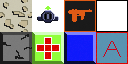
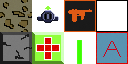
asd

Changed region(s): [[0.5, 0.5, 0.75, 1.0], [0.0, 0.0, 0.25, 0.5]]

diff --git a/Pawns.py b/Pawns.py
@@ -1,7 +1,7 @@
 import pygame as pg
 from settings import *
 from Entity import GameEntity
-import time
+import math
 import json
 
 vec = pg.math.Vector2
@@ -16,9 +16,6 @@ class Player(GameEntity):
         self.image_copy = self.image.copy()
         self.copy_rect = self.image_copy.get_rect()
         self.player_center = self.copy_rect.center
-        self.acc = vec(0, 0)
-        self.vel = vec(0, 0)
-        self.pos = vec(0, 0)
         self.health = 100
         self.rotation_speed = 10
         self.rotation_amount = 0
@@ -30,19 +27,19 @@ class Player(GameEntity):
         self.pickup_item()
 
     def pickup_item(self):
-        new_weapon = Weapon(player=self, world=self.world, name="armBlaster", asset_type=WEAPON)
-        print("picking up item: {}".format(new_weapon.name))
+        new_weapon = Weapon(owner=self, world=self.world, name="armBlaster", asset_type=WEAPON)
         self.weapons.append(new_weapon)
         self.current_weapon = new_weapon
+
+    def get_movement_vector(self):
+        vel_x = int(self.vel.x + 0.5 * self.acc.x)
+        vel_y = int(self.vel.y + 0.5 * self.acc.y)
+        return vel_x, vel_y
 
     def update(self):
         self.get_keys()
         if self.health <= 0:
-            self.alive = False
-        if self.alive == False:
-            print("Player Died, game over.")
-            self.game.playing = False
-            self.game.game_over = True
+            self.is_alive = False
 
     def rotate_player(self, input_direction):
         if input_direction != self.rotation_amount:
@@ -103,6 +100,8 @@ class Player(GameEntity):
             if keys[pg.K_LSHIFT]:
                 self.acc.y = -PLAYER_ACCELERATION * 2
                 # apply friction
+        if keys[pg.K_k]:
+            self.health = 0
         self.current_weapon.get_keys()
         self.acc += self.vel * PLAYER_FRICTION
         # equations of motion
@@ -121,17 +120,23 @@ class Weapon(GameEntity):
     def __init__(self, **kwargs):
         super(Weapon, self).__init__(**kwargs)
         self.weapon_stats = None
+        self.owner = kwargs.get('owner')
         self.setup_weapon()
+        self.last_bullet = None
 
     def get_keys(self):
         mouse_event = pg.mouse.get_pressed()
         if mouse_event[0]:  # and self.current_ammo > 0
-            self.shoot()
+            if not self.last_bullet:
+                self.shoot()
+            elif pg.time.get_ticks() - self.last_bullet.spawn_time > self.weapon_stats['millisecondsBetweenBullets']:
+                self.shoot()
 
     def shoot(self):
-        print("{} just shot!".format(self.name))
-        self.world.spawn_item(Bullet(world=self.world, life_length=self.weapon_stats['lifeLength'],
-                                     name=("{} ammo".format(self.name))))
+        self.last_bullet = Bullet(world=self.world, life_length=self.weapon_stats['lifeLength'],
+                                  bullet_speed=self.weapon_stats['bulletSpeed'], name=("{} ammo".format(self.name)),
+                                  spawn_angle=self.owner.rotation_amount)
+        self.world.spawn_item(self.last_bullet)
         # current_bullet = Bullet(self.world)
         # self.live_bullets.append(current_bullet)
 
@@ -155,9 +160,37 @@ class Bullet(GameEntity):
         self.acc = vec(0, 0)
         self.vel = vec(0, 0)
         self.pos = vec(0, 0)
+        self.image_copy = self.image.copy()
+        self.copy_rect = self.image_copy.get_rect()
+        self.rotation_amount = kwargs.get('spawn_angle')
         self.life_length = kwargs.get('life_length')
+        self.speed = kwargs.get('bullet_speed')
+        self.x_movement = 0
+        self.y_movement = 0
+        self.rotate_image()
+        self.set_movement(player_vector=kwargs.get('player_vector'))
 
-    def update(self):
-        if (time.time() - self.spawn_time) > self.life_length:
+    def set_movement(self, **kwargs):
+        if self.rotation_amount < 0:
+            self.rotation_amount = 360 + self.rotation_amount
+        if 180 > self.rotation_amount >= 0:
+            self.x_movement = -1 * (1 - (abs(90 - self.rotation_amount) / 90.0))
+            self.y_movement = -1 * ((90 - self.rotation_amount) / 90.0)
+        if 360 >= self.rotation_amount >= 180:
+            self.x_movement = 1 - (abs(270 - self.rotation_amount) / 90.0)
+            self.y_movement = ((270 - self.rotation_amount) / 90.0)
+        self.x_movement = round(self.x_movement * self.speed)
+        self.y_movement = round(self.y_movement * self.speed)
+
+    def update(self, **kwargs):
+        if (pg.time.get_ticks() - self.spawn_time) > self.life_length:
             self.kill()
+        self.rect.x += self.x_movement
+        self.rect.y += self.y_movement
         # self.rect.x, self.rect.y = self.pos
+
+    def rotate_image(self):
+        rot_image = pg.transform.rotate(self.image_copy, self.rotation_amount)
+        self.rect.topleft = (
+            SCREEN_WIDTH / 2 - rot_image.get_width() / 2, SCREEN_HEIGHT / 2 - rot_image.get_height() / 2)
+        self.image = rot_image

diff --git a/World.py b/World.py
@@ -9,13 +9,13 @@ class World:
         self.world_coords_origin = SCREEN_WIDTH/2, SCREEN_HEIGHT/2
         self.world_coords_offset = (0, 0)
         self.player_1 = None
-        self.player_sprite = sprite.OrderedUpdates()
+        self.player_sprite = sprite.Group()
         self.sprite_sheet = None
         self.terrain_sprites = sprite.OrderedUpdates()
-        self.projectile_sprites = sprite.OrderedUpdates()
+        self.projectile_sprites = sprite.Group()
+        self.enemy_sprites = sprite.Group()
         self.offset_x = None
         self.offset_y = None
-        self.current_tiles = []
         self.render_surface = RenderSurface(game=self, width=SURFACE_WIDTH, height=SURFACE_HEIGHT)
 
     def update_coords(self, vector_object):
@@ -28,19 +28,26 @@ class World:
         pass
 
     def spawn_item(self, item):
-        item.rect.x, item.rect.y = self.player_1.rect.x, self.player_1.rect.y
         self.projectile_sprites.add(item)
 
     def update(self):
         for player_sprites in self.player_sprite:
             player_sprites.update()
+        for projectile_sprite in self.projectile_sprites:
+            projectile_sprite.update()
+            # projectile_sprite.update(player_vector=[int(self.player_1.vel.x + 0.5 * self.player_1.acc.x),
+            #                                         int(self.player_1.vel.y + 0.5 * self.player_1.acc.y)])
+        self.update_world()
+
+    def update_world(self):
         previous_sprite_count = -1
         next_sprite_count = 1
         current_count = 0
         amount_tiles_wide = int(self.render_surface.rect.width / TILE_SIZE)
         for current_sprite in self.terrain_sprites.sprites():
-            current_sprite.rect.x += int(self.player_1.vel.x + 0.5 * self.player_1.acc.x)
-            current_sprite.rect.y += int(self.player_1.vel.y + 0.5 * self.player_1.acc.y)
+            p_move_vector = self.player_1.get_movement_vector()
+            current_sprite.rect.x += p_move_vector[0]
+            current_sprite.rect.y += p_move_vector[1]
         for current_sprite in self.terrain_sprites.sprites():
             position_modifier1 = current_count
             position_modifier2 = current_count
@@ -69,20 +76,21 @@ class World:
             previous_sprite_count += 1
             next_sprite_count += 1
             current_count += 1
-        for projectile_sprite in self.projectile_sprites:
-            projectile_sprite.update()
 
-    def new(self):
-        for a in range(int(self.render_surface.rect.height / TILE_SIZE) + 1):
+    def new(self, game):
+        for a in range(int(self.render_surface.rect.height / TILE_SIZE)):
             for b in range(int(self.render_surface.rect.width / TILE_SIZE)):
-                floor_tile = GameEntity(world=self, asset_type=DESSERT, name="Dessert Tile")
+                if a == 5 and b == 4:
+                    floor_tile = GameEntity(world=self, asset_type=WALL, name="Dessert Tile")
+                else:
+                    floor_tile = GameEntity(world=self, asset_type=DESSERT, name="Dessert Tile")
                 self.offset_x = (self.render_surface.rect.x + TILE_SIZE * b)
                 self.offset_y = (self.render_surface.rect.y + TILE_SIZE * a)
                 floor_tile.rect.x = self.offset_x
                 floor_tile.rect.y = self.offset_y
                 # self.render_surface.blit(self.floor_tile.image, (self.offset_x, self.offset_y), None)
                 self.terrain_sprites.add(floor_tile)
-        self.player_1 = Player(world=self, asset_type=PLAYER_HUMAN, name="Player 1")
+        self.player_1 = Player(world=self, asset_type=PLAYER_HUMAN, name="Player 1", game=game)
         self.player_1.rect.center = self.render_surface.rect.center
         self.player_sprite.add(self.player_1)
         self.player_sprite.add(Weapon(player=self.player_1, world=self, name="armBlaster", asset_type=WEAPON))
@@ -91,7 +99,6 @@ class World:
 class RenderSurface(Surface):
     def __init__(self, **kwargs):
         super(Surface, self).__init__(**kwargs)
-        self.game = kwargs.get('game')
         self.image = Surface((kwargs.get('width'), kwargs.get('height')))
         self.rect = self.image.get_rect()
         self.rect.center = [SCREEN_WIDTH/2, SCREEN_HEIGHT/2]

diff --git a/main.py b/main.py
@@ -19,16 +19,16 @@ class Game:
         self.running = True
         self.playing = True
         self.world = None
-        self.load_assets()
         self.game_over = False
 
     def load_assets(self):
         # logging.info("Loading Assets...")
         self.world = World()
         self.world.sprite_sheet = SpriteSheet(path.join(path.join(ROOT_FOLDER, "img"), SPRITE_FILE_NAME))
-        self.world.new()
+        self.world.new(self)
 
     def new(self):
+        self.load_assets()
         # logging.info("Starting new game...")
         self.run()
 
@@ -36,8 +36,9 @@ class Game:
         # logging.info("Entering Game Loop...")
         while self.playing:
             self.clock.tick(FPS)
+            print(self.clock.get_fps())
             self.events()
-            self.world.update()
+            self.update()
             self.draw()
         # logging.info("Exiting Game Loop...")
 
@@ -50,8 +51,7 @@ class Game:
                 self.running = False
 
     def update(self):
-        self.world.terrain_sprites.update()
-        self.world.player_sprite.update()
+        self.world.update()
 
     def draw(self):
         # Game Loop - Draw
@@ -103,6 +103,7 @@ while g.running:
     g.new()
     if g.game_over:
         g.show_game_over_screen()
+
 pg.quit()
 # logging.info("Quitting Game...")
 quit()

diff --git a/Entity.py b/Entity.py
@@ -1,6 +1,7 @@
 import pygame as pg
 import time
 from settings import TILE_SIZE
+vec = pg.math.Vector2
 
 
 class SpriteSheet:
@@ -32,7 +33,10 @@ class GameEntity(pg.sprite.Sprite):
                                                        self.asset_type[2],
                                                        self.asset_type[3])
         self.rect = self.image.get_rect()
-        self.spawn_time = time.time()
+        self.acc = vec(0, 0)
+        self.vel = vec(0, 0)
+        self.pos = vec(0, 0)
+        self.spawn_time = pg.time.get_ticks()
 
     def spawn(self, x, y):
         # spawn entity at specified world coordinates

diff --git a/settings.py b/settings.py
@@ -1,18 +1,19 @@
 import os
 
+TILE_SIZE = 32
+
 # define options/settings
 TITLE = "Mech Warrior"
-SCREEN_WIDTH = 1024
-SCREEN_HEIGHT = 720
-SURFACE_WIDTH = 800
-SURFACE_HEIGHT = 600
-FPS = 30
+SCREEN_WIDTH = 800
+SCREEN_HEIGHT = 800
+SURFACE_WIDTH = SCREEN_WIDTH + (TILE_SIZE * 2)
+SURFACE_HEIGHT = SCREEN_HEIGHT + (TILE_SIZE * 2)
+FPS = 60
 GRAVITY = 2
 ROOT_FOLDER = os.path.dirname(__file__)
 
 # spritesheet
 SPRITE_FILE_NAME = "MechWarrior.png"
-TILE_SIZE = 32
 KEY_PIXEL = (255, 0, 236)
 
 # spritesheet asset locations
